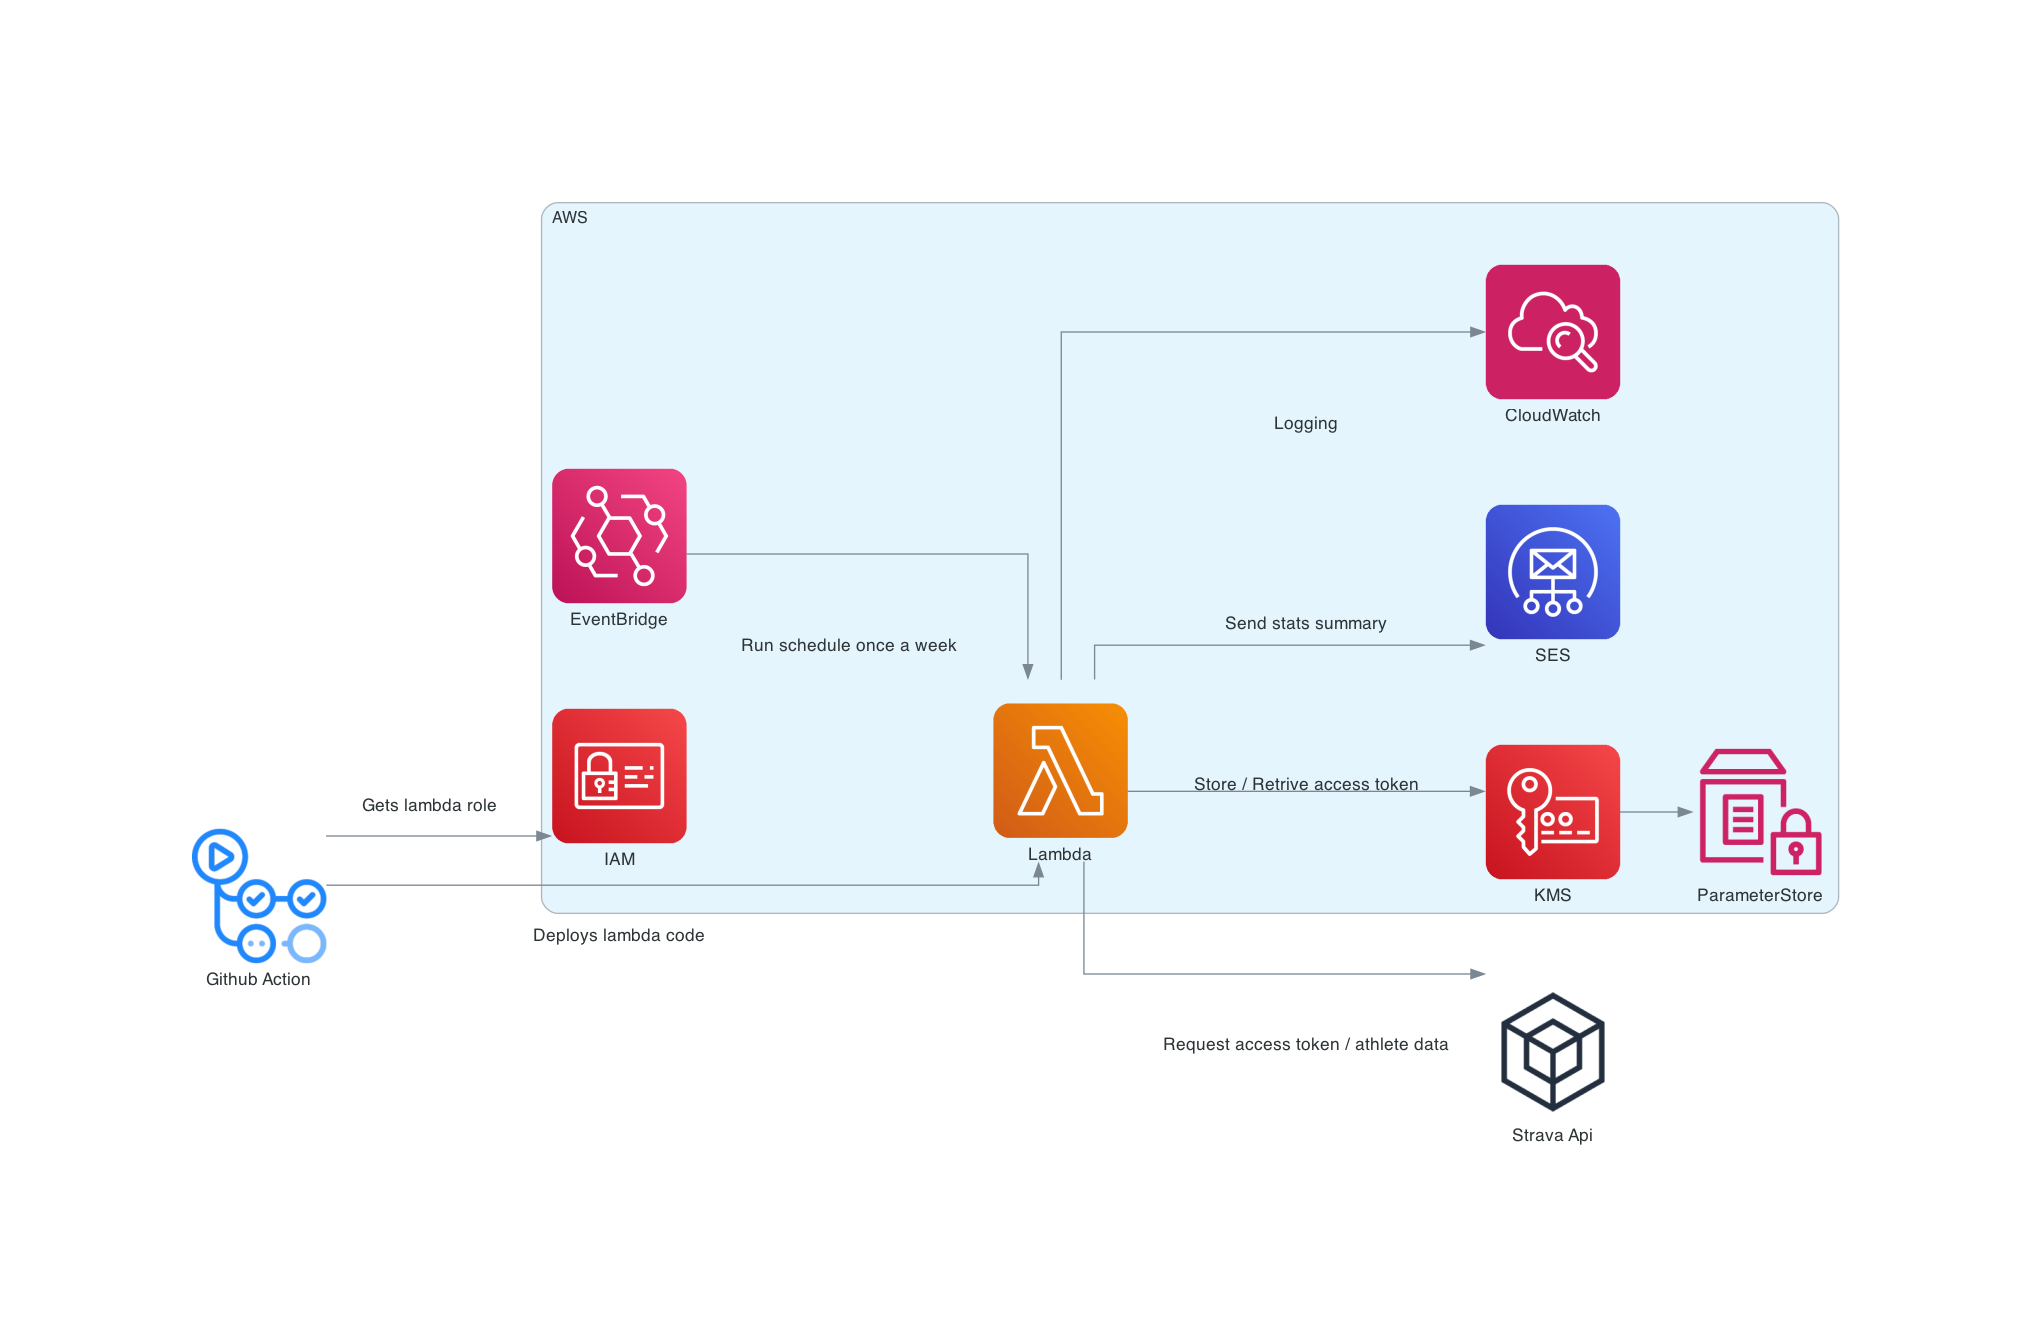
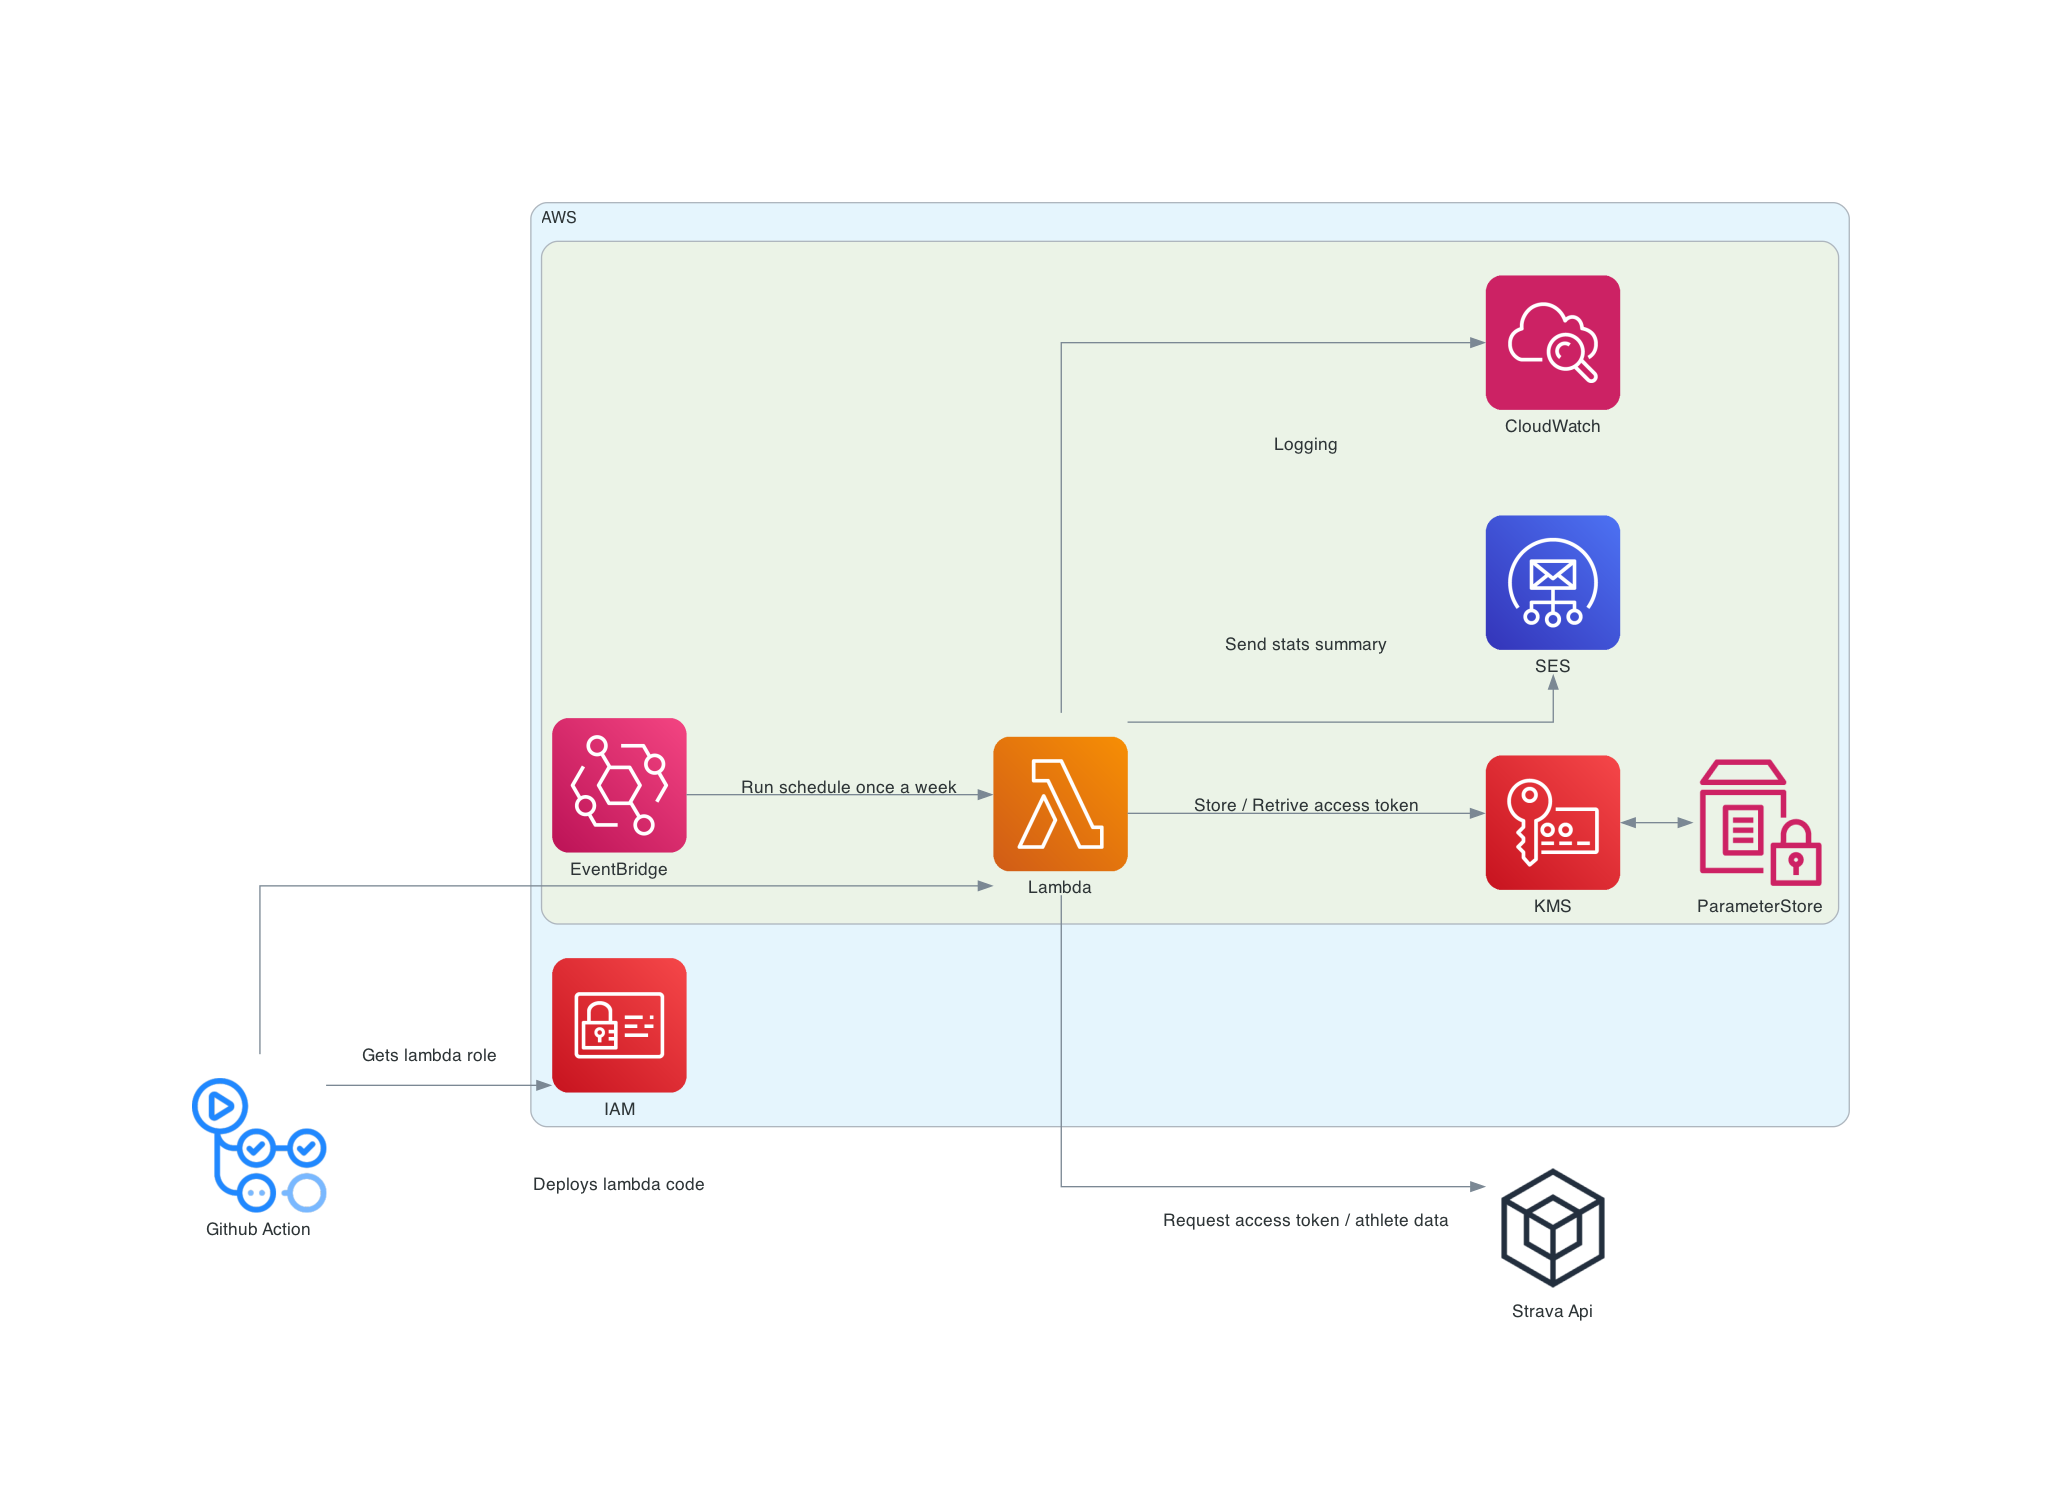
docs: Update diagram

diff --git a/docs/aws_architecture-diagram.py b/docs/aws_architecture-diagram.py
@@ -12,19 +12,22 @@ with Diagram("", filename="aws_architecture-diagram", outformat="png"):
     strava_api = SDK("Strava Api")
 
     with Cluster("AWS"):
-        event = Eventbridge("EventBridge")
-        lambda_function = Lambda("Lambda")
         iam_role = IAM("IAM")
 
-        event >> Edge(label="Run schedule once a week") >> lambda_function
+        with Cluster(""):
+            event = Eventbridge("EventBridge")
+            lambda_function = Lambda("Lambda")
 
-        lambda_function >> Edge(
-            label="Store / Retrive access token") >> KMS("KMS") >> ParameterStore("ParameterStore")
-        lambda_function >> Edge(label="Send stats summary") >> SES("SES")
-        lambda_function >> Edge(label="Logging") >> Cloudwatch("CloudWatch")
+            event >> Edge(label="Run schedule once a week") >> lambda_function
 
-        lambda_function >> Edge(
-            label="Request access token / athlete data") >> strava_api
+            lambda_function >> Edge(
+                label="Store / Retrive access token") >> KMS("KMS") >> Edge() << ParameterStore("ParameterStore")
+            lambda_function >> Edge(label="Send stats summary") >> SES("SES")
+            lambda_function >> Edge(
+                label="Logging") >> Cloudwatch("CloudWatch")
+
+            lambda_function >> Edge(
+                label="Request access token / athlete data") >> strava_api
 
     github_action >> Edge(label="Deploys lambda code") >> lambda_function
     github_action >> Edge(label="Gets lambda role") >> iam_role
